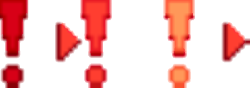
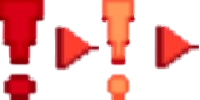
rocket ready

diff --git a/src/Missile.cpp b/src/Missile.cpp
@@ -10,12 +10,23 @@ bool Missile::m_registerit = Factory::registerit("Missile", [](sf::Vector2f posi
 
 Missile::Missile(sf::Vector2f position)
 {
-	m_beforeMissile.setTexture(Resources::instance().getObjectTexture(7));
+	m_MissileLaunch.setBuffer(Resources::instance().getSoundEffect(4));
+	m_MissileLaunch.setVolume(100);
+	m_MissileWarning.setBuffer(Resources::instance().getSoundEffect(3));
+	m_MissileWarning.setVolume(100);
+	m_MissileWarning.setLoop(true);
 
-	sf::IntRect warningRect(0, 0, m_beforeMissile.getTexture()->getSize().x / 2, m_beforeMissile.getTexture()->getSize().y);
-	m_beforeMissile.setTextureRect(warningRect);
+	m_beforeMissile.setTexture(Resources::instance().getObjectTexture(8));
+	m_warningMissile.setTexture(Resources::instance().getObjectTexture(7));
+
+	sf::IntRect warningRect1(0, 0, m_beforeMissile.getTexture()->getSize().x / 2, m_beforeMissile.getTexture()->getSize().y);
+	m_beforeMissile.setTextureRect(warningRect1);
+
+	sf::IntRect warningRect2(0, 0, m_warningMissile.getTexture()->getSize().x / 2, m_warningMissile.getTexture()->getSize().y);
+	m_beforeMissile.setTextureRect(warningRect2);
 
 	m_beforeMissile.setScale(0.8,0.8);
+	m_warningMissile.setScale(0.8,0.8);
 
     updateSprite(position, &Resources::instance().getObjectTexture(6));
     sf::IntRect missileRect(0, 0, getSprite().getTexture()->getSize().x / 7, getSprite().getTexture()->getSize().y);
@@ -30,25 +41,17 @@ void Missile::updatebeforeMissile(int index)
 
 void Missile::updateSoundAndWarnings(sf::Vector2f playerpos)
 {
-	static sf::Sound missileLaunch;
-	missileLaunch.setBuffer(Resources::instance().getSoundEffect(4));
-	missileLaunch.setVolume(100);
-
-	static sf::Sound missileWarning;
-	missileWarning.setBuffer(Resources::instance().getSoundEffect(3));
-	missileWarning.setVolume(100);
-
 	if (getSprite().getPosition().x >= playerpos.x + 1380) //missile not yet reached
 	{
-		updateWarningLocation( playerpos + sf::Vector2f(1300,0));
+		updateWarningLocation( playerpos + sf::Vector2f(1290,0));
 
-		if (!getIsWarningPlayed())
+		if (!getIsWarningPlayed() && (getSprite().getPosition().x <= playerpos.x + 1980))
 		{
+			m_beforeMissile.setTexture(Resources::instance().getObjectTexture(7));
 			std::cout << "Incoming!\n";
-			missileWarning.play();
+			m_MissileWarning.play();
 			setIsWarningPlayed(true);
 		}
-		setIsWarningPlayed(false);
 	}
 	else if (getSprite().getPosition().x <= playerpos.x - 128) //end of missile trace
 	{
@@ -59,8 +62,9 @@ void Missile::updateSoundAndWarnings(sf::Vector2f playerpos)
 		if (!getIsLaunchPlayed())
 		{
 			std::cout << "Missile!\n";
-			missileLaunch.play();
+			m_MissileLaunch.play();
 			setIsLaunchPlayed(true);
+			m_MissileWarning.setLoop(false);
 		}
 	}
 }
@@ -75,6 +79,16 @@ void Missile::updateWarningLocation(sf::Vector2f pos)
 	m_beforeMissile.setPosition({pos.x,getSprite().getPosition().y});
 }
 
+sf::Sprite Missile::getBeforeMissile()
+{
+	return m_warningMissile;
+}
+
+void Missile::updateBeforeLocation(sf::Vector2f pos)
+{
+	m_warningMissile.setPosition({ pos.x,getSprite().getPosition().y });
+}
+
 void Missile::move(sf::Vector2f pos, float time)
 {
     updateSpritePos({pos.x - 700*time, pos.y });
@@ -86,18 +100,32 @@ void Missile::show() {
 
 void Missile::updateAnimation(float )
 {
-    setAnimationFrame((getAnimationFrame() + 1) % 7);
+    //setAnimationFrame((getAnimationFrame() + 1) % 7);
+	//
+    //int frameWidth = getSprite().getTexture()->getSize().x / 7;
+	//
+    //sf::IntRect frameRect(getAnimationFrame() * frameWidth, 0, frameWidth, getSprite().getTexture()->getSize().y);
+    //changeSpriteAnimation(frameRect);
+	//
+	//
+	//int frameWidth2 = m_beforeMissile.getTexture()->getSize().x / 2;
+	//
+	//sf::IntRect frameRect2(((getAnimationFrame() % 2) + 1) * frameWidth2, 0, frameWidth2, m_beforeMissile.getTexture()->getSize().y);
+	//m_beforeMissile.setTextureRect(frameRect2);
+	// Assuming there are 7 frames for the missile and 2 frames for the warning
+	const int missileFrameCount = 7;
+	const int warningFrameCount = 2;
 
-    int frameWidth = getSprite().getTexture()->getSize().x / 7;
+	// Update the missile animation frame
+	setAnimationFrame((getAnimationFrame() + 1) % missileFrameCount);
+	int frameWidth = getSprite().getTexture()->getSize().x / missileFrameCount;
+	sf::IntRect missileFrameRect(getAnimationFrame() * frameWidth, 0, frameWidth, getSprite().getTexture()->getSize().y);
+	changeSpriteAnimation(missileFrameRect);
 
-    sf::IntRect frameRect(getAnimationFrame() * frameWidth, 0, frameWidth, getSprite().getTexture()->getSize().y);
-    changeSpriteAnimation(frameRect);
-
-
-	int frameWidth2 = m_beforeMissile.getTexture()->getSize().x / 2;
-
-	sf::IntRect frameRect2(((getAnimationFrame() % 2) + 1) * frameWidth2, 0, frameWidth2, m_beforeMissile.getTexture()->getSize().y);
-	m_beforeMissile.setTextureRect(frameRect2);
+	// Update the warning animation frame
+	int warningFrameWidth = m_beforeMissile.getTexture()->getSize().x / warningFrameCount;
+	sf::IntRect warningFrameRect((getAnimationFrame() % warningFrameCount) * warningFrameWidth, 0, warningFrameWidth, m_beforeMissile.getTexture()->getSize().y);
+	m_beforeMissile.setTextureRect(warningFrameRect);
 }
 
 

diff --git a/include/Missile.h b/include/Missile.h
@@ -14,8 +14,14 @@ public:
 	virtual void updateSoundAndWarnings(sf::Vector2f pos) override;
 	virtual sf::Sprite getWarning() override;
 	void updateWarningLocation(sf::Vector2f pos);
+	virtual sf::Sprite getBeforeMissile() override;
+	void updateBeforeLocation(sf::Vector2f pos);
 
 private:
 	static bool m_registerit;
 	sf::Sprite m_beforeMissile;
+	sf::Sprite m_warningMissile;
+	sf::Sound m_MissileLaunch;
+	sf::Sound m_MissileWarning;
+
 };

diff --git a/src/Factory.cpp b/src/Factory.cpp
@@ -551,7 +551,7 @@ std::list<std::unique_ptr<Enemy>> Factory::createMissile(const std::string& name
     std::list<std::unique_ptr<Enemy>> temp;
 
     // Calculate starting position outside the screen on the right side
-    float startX = 500 + scrollOffset.x; 
+    float startX = 2000 + scrollOffset.x; 
     float startY = scrollOffset.y + 50;
 
     sf::Vector2f position(startX, startY);

diff --git a/include/Enemy.h b/include/Enemy.h
@@ -8,6 +8,7 @@ public:
 	virtual void move(sf::Vector2f pos, float time) = 0;
 	virtual void updateSoundAndWarnings(sf::Vector2f pos) = 0;
 	virtual sf::Sprite getWarning() = 0;
+	virtual sf::Sprite getBeforeMissile() = 0;
 	bool getIsLaunchPlayed();
 	bool setIsLaunchPlayed(bool state);
 	bool getIsWarningPlayed();

diff --git a/src/Menu.cpp b/src/Menu.cpp
@@ -1,7 +1,7 @@
 #include "Menu.h"
 
 Menu::Menu()
-    :m_window(sf::VideoMode(1456, 960), "Jetpack Joyride"),m_finishedLoading(false)
+    :m_window(sf::VideoMode(1280, 720), "Jetpack Joyride"),m_finishedLoading(false)
 {
     m_state = std::move(std::make_unique<DefaultMenu>(this));
 }
